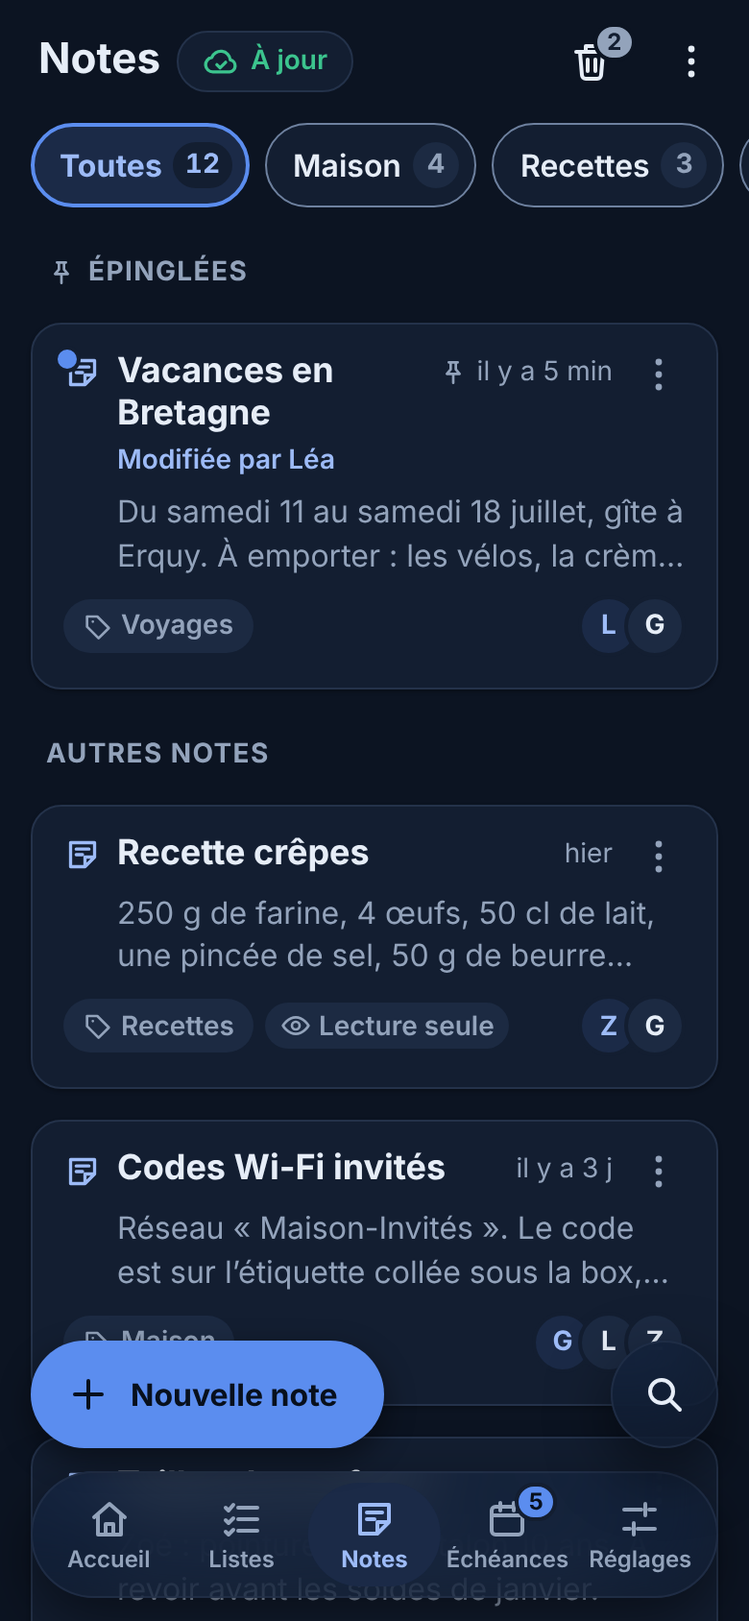
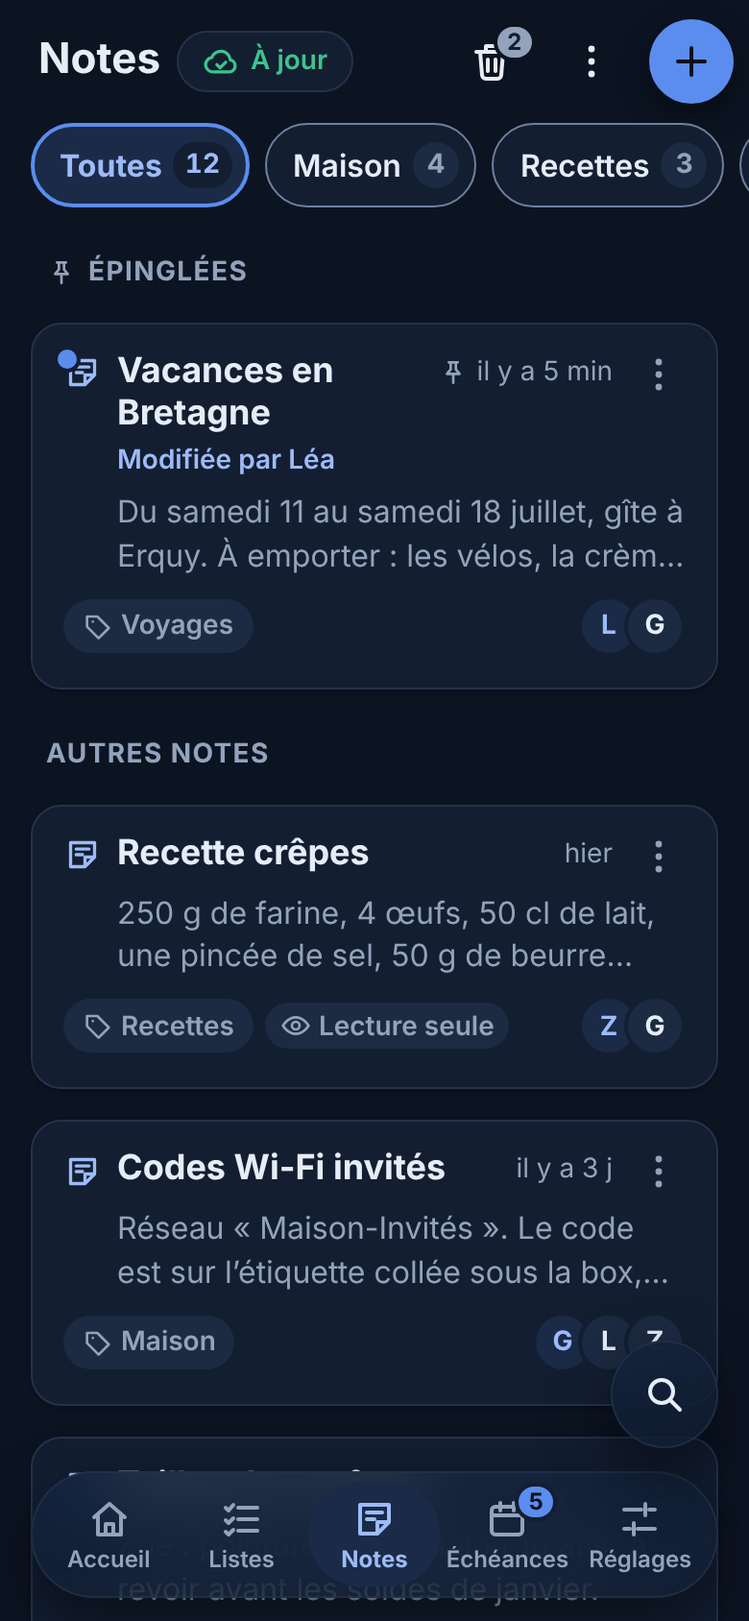
Maquettes : « + » en haut pour une nouvelle note, comme « Mes listes »
Claude-Session: https://claude.ai/code/session_01RoZ4edsPjQcz3aEDFj3cbP

Changed region(s): [[0.0308, 0.8009, 0.5231, 0.8934], [0.7692, 0.0, 0.9846, 0.0616], [0.6154, 0.0, 0.7077, 0.0616]]

diff --git a/design/accueil-notes/reference-telephone.html b/design/accueil-notes/reference-telephone.html
@@ -103,7 +103,7 @@
 <figure class="shot" id="accueil-2"><figcaption><code>accueil-2</code> · Accueil d’un nouveau compte</figcaption><div class="phone"><div class="app"><div class="screen"><header class="home-head"><h1 class="home-head__hello">Bonjour Zoé</h1><div class="home-head__line"><p class="home-head__date">Lundi 23 novembre</p><div class="home-head__tools"><button class="sync sync--ok" type="button" aria-label="À jour, synchroniser maintenant"><svg class="icon icon--sm" aria-hidden="true"><use href="#i-cloud-ok"/></svg><span class="sync__text">À jour</span></button><button class="icon-btn" type="button" aria-label="Notifications"><svg class="icon" aria-hidden="true"><use href="#i-bell"/></svg></button></div></div></header><div class="scroll"><div class="tiles"><section class="card tile" aria-label="Échéances"><button class="tile__head" type="button"><svg class="icon" aria-hidden="true"><use href="#i-calendar"/></svg><span class="tile__name">Échéances</span></button><p class="tile__empty">Aucune échéance</p></section><section class="card tile" aria-label="Listes"><button class="tile__head" type="button"><svg class="icon" aria-hidden="true"><use href="#i-tasks"/></svg><span class="tile__name">Listes</span></button><p class="tile__empty">Aucune liste</p><ul class="tile__rows"><li><button class="tile__row tile__row--add" type="button"><svg class="icon icon--sm" aria-hidden="true"><use href="#i-plus"/></svg><span class="tile__label">Nouvelle liste</span></button></li></ul></section><section class="card tile" aria-label="Notes"><button class="tile__head" type="button"><svg class="icon" aria-hidden="true"><use href="#i-note"/></svg><span class="tile__name">Notes</span></button><p class="tile__empty">Aucune note</p><ul class="tile__rows"><li><button class="tile__row tile__row--add" type="button"><svg class="icon icon--sm" aria-hidden="true"><use href="#i-plus"/></svg><span class="tile__label">Nouvelle note</span></button></li></ul></section><section class="card tile" aria-label="Compte"><button class="tile__head" type="button"><svg class="icon" aria-hidden="true"><use href="#i-user"/></svg><span class="tile__name">Compte</span></button><ul class="tile__rows"><li><button class="tile__row" type="button"><span class="tile__label">Mon compte</span><svg class="icon icon--sm" aria-hidden="true"><use href="#i-chev-r"/></svg></button></li><li><button class="tile__row" type="button"><span class="tile__label">Notifications</span><svg class="icon icon--sm" aria-hidden="true"><use href="#i-chev-r"/></svg></button></li><li><button class="tile__row" type="button"><span class="tile__label">Réglages</span><svg class="icon icon--sm" aria-hidden="true"><use href="#i-chev-r"/></svg></button></li></ul></section></div></div></div></div></div></figure>
 <figure class="shot" id="accueil-3"><figcaption><code>accueil-3</code> · Saisie rapide «&nbsp;Nouvelle note&nbsp;»</figcaption><div class="phone"><div class="app"><div class="screen"><header class="home-head"><h1 class="home-head__hello">Bonjour Guillaume</h1><div class="home-head__line"><p class="home-head__date">Lundi 23 novembre</p><div class="home-head__tools"><button class="sync sync--ok" type="button" aria-label="À jour, synchroniser maintenant"><svg class="icon icon--sm" aria-hidden="true"><use href="#i-cloud-ok"/></svg><span class="sync__text">À jour</span></button><button class="icon-btn icon-btn--badge" type="button" aria-label="Notifications, 3 non lues"><svg class="icon" aria-hidden="true"><use href="#i-bell"/></svg><span class="icon-btn__badge" aria-hidden="true">3</span></button></div></div></header><div class="scroll"><div class="tiles"><section class="card tile" aria-label="Échéances"><button class="tile__head" type="button"><svg class="icon" aria-hidden="true"><use href="#i-calendar"/></svg><span class="tile__name">Échéances</span></button><ul class="tile__rows"><li><button class="tile__row" type="button" aria-label="En retard, 2 tâches"><span class="tile__label">En retard</span><span class="count count--danger" aria-hidden="true">2</span></button></li><li><button class="tile__row" type="button" aria-label="Aujourd&#39;hui, 3 tâches"><span class="tile__label">Aujourd&#39;hui</span><span class="count count--success" aria-hidden="true">3</span></button></li><li><button class="tile__row" type="button" aria-label="Plus tard, 8 tâches"><span class="tile__label">Plus tard</span><span class="count" aria-hidden="true">8</span></button></li></ul></section><section class="card tile" aria-label="Listes"><button class="tile__head" type="button"><svg class="icon" aria-hidden="true"><use href="#i-tasks"/></svg><span class="tile__name">Listes</span></button><ul class="tile__rows"><li><button class="tile__row" type="button" aria-label="Courses, 3 listes"><span class="tile__label">Courses</span><span class="count" aria-hidden="true">3</span></button></li><li><button class="tile__row" type="button" aria-label="Tâches, 4 listes, nouveautés"><span class="tile__label">Tâches</span><span class="tile__dot" aria-hidden="true"></span><span class="count" aria-hidden="true">4</span></button></li><li><button class="tile__row" type="button" aria-label="Envies, 1 liste"><span class="tile__label">Envies</span><span class="count" aria-hidden="true">1</span></button></li></ul></section><section class="card tile" aria-label="Notes"><button class="tile__head" type="button" aria-label="Notes, 12 notes"><svg class="icon" aria-hidden="true"><use href="#i-note"/></svg><span class="tile__name">Notes</span></button><p class="tile__meta" aria-hidden="true">12 notes</p><ul class="tile__rows"><li><button class="tile__row" type="button" aria-label="Vacances en Bretagne, modifiée par Léa"><span class="tile__label">Vacances en Bretagne</span><span class="tile__dot" aria-hidden="true"></span></button></li><li><button class="tile__row" type="button"><span class="tile__label">Recette crêpes</span></button></li><li><button class="tile__row tile__row--add" type="button"><svg class="icon icon--sm" aria-hidden="true"><use href="#i-plus"/></svg><span class="tile__label">Nouvelle note</span></button></li></ul></section><section class="card tile" aria-label="Compte"><button class="tile__head" type="button"><svg class="icon" aria-hidden="true"><use href="#i-user"/></svg><span class="tile__name">Compte</span></button><ul class="tile__rows"><li><button class="tile__row" type="button"><span class="tile__label">Mon compte</span><svg class="icon icon--sm" aria-hidden="true"><use href="#i-chev-r"/></svg></button></li><li><button class="tile__row" type="button" aria-label="Notifications, 3 non lues"><span class="tile__label">Notifications</span><span class="count count--accent" aria-hidden="true">3</span></button></li><li><button class="tile__row" type="button"><span class="tile__label">Réglages</span><svg class="icon icon--sm" aria-hidden="true"><use href="#i-chev-r"/></svg></button></li></ul></section></div></div><div class="scrim"></div><div class="sheet" role="dialog" aria-modal="true" aria-labelledby="qn-title"><span class="sheet__grab" aria-hidden="true"></span><div class="sheet__head"><h2 class="sheet__title" id="qn-title">Nouvelle note</h2></div><input class="input" type="text" aria-label="Titre (facultatif)" placeholder="Titre (facultatif)" maxlength="120"><div class="input input--area quick-note__text is-focus mock-field" role="textbox" aria-multiline="true" aria-label="Texte de la note">Code du portail pour samedi : demander à Léa.
 Prendre les rallonges pour la fête des voisins<span class="mock-caret"></span></div><div class="field"><p class="field__label" id="qn-cat">Catégorie</p><div class="cat-pick" role="radiogroup" aria-labelledby="qn-cat"><button class="cat-pick__opt" type="button" role="radio" aria-checked="true"><svg class="icon icon--sm" aria-hidden="true"><use href="#i-check"/></svg>Sans catégorie</button><button class="cat-pick__opt" type="button" role="radio" aria-checked="false">Maison</button><button class="cat-pick__opt" type="button" role="radio" aria-checked="false">Recettes</button><button class="cat-pick__opt" type="button" role="radio" aria-checked="false">Voyages</button></div></div><div class="sheet__actions"><button class="btn btn--secondary" type="button">Annuler</button><button class="btn btn--primary" type="button">Enregistrer</button></div></div></div></div></div></figure>
-<figure class="shot" id="notes-1"><figcaption><code>notes-1</code> · Écran Notes</figcaption><div class="phone"><div class="app"><div class="screen"><header class="topbar topbar--plain topbar--status"><div class="topbar__main"><h1 class="topbar__title">Notes</h1></div><div class="topbar__status"><button class="sync sync--ok" type="button" aria-label="À jour, synchroniser maintenant"><svg class="icon icon--sm" aria-hidden="true"><use href="#i-cloud-ok"/></svg><span class="sync__text">À jour</span></button></div><button class="icon-btn icon-btn--badge" type="button" aria-label="Corbeille des notes, 2 notes"><svg class="icon" aria-hidden="true"><use href="#i-trash"/></svg><span class="icon-btn__badge icon-btn__badge--neutral" aria-hidden="true">2</span></button><button class="icon-btn" type="button" aria-label="Plus d&#39;actions" aria-haspopup="menu"><svg class="icon" aria-hidden="true"><use href="#i-more"/></svg></button></header><div class="catbar" role="group" aria-label="Catégories"><button class="cat-chip" type="button" aria-pressed="true" aria-label="Toutes, 12 notes">Toutes<span class="cat-chip__count" aria-hidden="true">12</span></button><button class="cat-chip" type="button" aria-pressed="false" aria-label="Maison, 4 notes">Maison<span class="cat-chip__count" aria-hidden="true">4</span></button><button class="cat-chip" type="button" aria-pressed="false" aria-label="Recettes, 3 notes">Recettes<span class="cat-chip__count" aria-hidden="true">3</span></button><button class="cat-chip" type="button" aria-pressed="false" aria-label="Voyages, 2 notes">Voyages<span class="cat-chip__count" aria-hidden="true">2</span></button><button class="cat-chip" type="button" aria-pressed="false" aria-label="Sans catégorie, 3 notes">Sans catégorie<span class="cat-chip__count" aria-hidden="true">3</span></button></div><div class="scroll scroll--under-dock"><div class="cards"><h2 class="notes-section"><svg class="icon icon--xs" aria-hidden="true"><use href="#i-pin"/></svg>Épinglées</h2><article class="card note-card"><div class="note-card__head"><span class="note-card__icon"><svg class="icon icon--sm" aria-hidden="true"><use href="#i-note"/></svg><span class="news-badge news-badge--dot" role="img" aria-label="Nouveautés"></span></span><h3 class="note-card__title"><a href="#" style="color:inherit;text-decoration:none">Vacances en Bretagne</a></h3><span class="note-card__time"><svg class="icon icon--xs" aria-hidden="true"><use href="#i-pin"/></svg><span class="visually-hidden">Épinglée, </span>il y a 5 min</span><button class="icon-btn" type="button" aria-label="Actions de Vacances en Bretagne"><svg class="icon" aria-hidden="true"><use href="#i-more"/></svg></button></div><span class="note-card__news">Modifiée par Léa</span><p class="note-card__excerpt">Du samedi 11 au samedi 18 juillet, gîte à Erquy. À emporter : les vélos, la crème solaire, les jeux de société pour les soirs de pluie.</p><div class="note-card__foot"><div class="note-card__chips"><span class="chip"><svg class="icon icon--xs" aria-hidden="true"><use href="#i-tag"/></svg>Voyages</span></div><div class="avatars" role="img" aria-label="Partagée avec Léa, Guillaume"><span class="avatar">L</span><span class="avatar avatar--b">G</span></div></div></article><h2 class="notes-section">Autres notes</h2><article class="card note-card"><div class="note-card__head"><span class="note-card__icon"><svg class="icon icon--sm" aria-hidden="true"><use href="#i-note"/></svg></span><h3 class="note-card__title"><a href="#" style="color:inherit;text-decoration:none">Recette crêpes</a></h3><span class="note-card__time">hier</span><button class="icon-btn" type="button" aria-label="Actions de Recette crêpes"><svg class="icon" aria-hidden="true"><use href="#i-more"/></svg></button></div><p class="note-card__excerpt">250 g de farine, 4 œufs, 50 cl de lait, une pincée de sel, 50 g de beurre fondu. Laisser reposer une heure.</p><div class="note-card__foot"><div class="note-card__chips"><span class="chip"><svg class="icon icon--xs" aria-hidden="true"><use href="#i-tag"/></svg>Recettes</span><span class="chip chip--readonly"><svg class="icon icon--xs" aria-hidden="true"><use href="#i-eye"/></svg>Lecture seule</span></div><div class="avatars" role="img" aria-label="Partagée avec Zoé, Guillaume"><span class="avatar">Z</span><span class="avatar avatar--b">G</span></div></div></article><article class="card note-card"><div class="note-card__head"><span class="note-card__icon"><svg class="icon icon--sm" aria-hidden="true"><use href="#i-note"/></svg></span><h3 class="note-card__title"><a href="#" style="color:inherit;text-decoration:none">Codes Wi-Fi invités</a></h3><span class="note-card__time">il y a 3 j</span><button class="icon-btn" type="button" aria-label="Actions de Codes Wi-Fi invités"><svg class="icon" aria-hidden="true"><use href="#i-more"/></svg></button></div><p class="note-card__excerpt">Réseau «&nbsp;Maison-Invités&nbsp;». Le code est sur l’étiquette collée sous la box, dans l’entrée.</p><div class="note-card__foot"><div class="note-card__chips"><span class="chip"><svg class="icon icon--xs" aria-hidden="true"><use href="#i-tag"/></svg>Maison</span></div><div class="avatars" role="img" aria-label="Partagée avec Guillaume, Léa, Zoé"><span class="avatar">G</span><span class="avatar avatar--b">L</span><span class="avatar avatar--b">Z</span></div></div></article><article class="card note-card"><div class="note-card__head"><span class="note-card__icon"><svg class="icon icon--sm" aria-hidden="true"><use href="#i-note"/></svg></span><h3 class="note-card__title"><a href="#" style="color:inherit;text-decoration:none">Tailles des enfants</a></h3><span class="note-card__time">il y a 2 sem.</span><button class="icon-btn" type="button" aria-label="Actions de Tailles des enfants"><svg class="icon" aria-hidden="true"><use href="#i-more"/></svg></button></div><p class="note-card__excerpt">Zoé : pointure 34, pantalon 10 ans. À revoir avant les soldes de janvier.</p><div class="note-card__foot"><div class="note-card__chips"><span class="chip"><svg class="icon icon--xs" aria-hidden="true"><use href="#i-tag"/></svg>Sans catégorie</span></div></div></article><article class="card note-card"><div class="note-card__head"><span class="note-card__icon"><svg class="icon icon--sm" aria-hidden="true"><use href="#i-note"/></svg></span><h3 class="note-card__title"><a href="#" style="color:inherit;text-decoration:none">Numéros utiles</a></h3><span class="note-card__time">3 nov.</span><button class="icon-btn" type="button" aria-label="Actions de Numéros utiles"><svg class="icon" aria-hidden="true"><use href="#i-more"/></svg></button></div><p class="note-card__excerpt">Plombier, électricien, chauffagiste : les cartes sont dans le tiroir de l’entrée.</p><div class="note-card__foot"><div class="note-card__chips"><span class="chip"><svg class="icon icon--xs" aria-hidden="true"><use href="#i-tag"/></svg>Maison</span></div></div></article></div></div><div class="tabdock"><button class="fab" type="button"><svg class="icon" aria-hidden="true"><use href="#i-plus"/></svg>Nouvelle note</button><nav class="tabbar tabbar--5 glass" aria-label="Navigation" data-current="2"><span class="tabbar__pill" aria-hidden="true"></span><button class="tabbar__tab" type="button"><span class="tabbar__ico"><svg class="icon" aria-hidden="true"><use href="#i-home"/></svg></span><span class="tabbar__label">Accueil</span></button><button class="tabbar__tab" type="button"><span class="tabbar__ico"><svg class="icon" aria-hidden="true"><use href="#i-tasks"/></svg></span><span class="tabbar__label">Listes</span></button><button class="tabbar__tab" type="button" aria-current="page"><span class="tabbar__ico"><svg class="icon" aria-hidden="true"><use href="#i-note"/></svg></span><span class="tabbar__label">Notes</span></button><button class="tabbar__tab" type="button" aria-label="Échéances, 5 tâches en retard ou pour aujourd&#39;hui"><span class="tabbar__ico"><svg class="icon" aria-hidden="true"><use href="#i-calendar"/></svg><span class="tabbar__badge" aria-hidden="true">5</span></span><span class="tabbar__label">Échéances</span></button><button class="tabbar__tab" type="button"><span class="tabbar__ico"><svg class="icon" aria-hidden="true"><use href="#i-sliders"/></svg></span><span class="tabbar__label">Réglages</span></button></nav><button class="loupe glass" type="button" aria-label="Rechercher dans les notes" aria-expanded="false"><svg class="icon" aria-hidden="true"><use href="#i-search"/></svg></button></div></div></div></div></figure>
+<figure class="shot" id="notes-1"><figcaption><code>notes-1</code> · Écran Notes</figcaption><div class="phone"><div class="app"><div class="screen"><header class="topbar topbar--plain topbar--status"><div class="topbar__main"><h1 class="topbar__title">Notes</h1></div><div class="topbar__status"><button class="sync sync--ok" type="button" aria-label="À jour, synchroniser maintenant"><svg class="icon icon--sm" aria-hidden="true"><use href="#i-cloud-ok"/></svg><span class="sync__text">À jour</span></button></div><button class="icon-btn icon-btn--badge" type="button" aria-label="Corbeille des notes, 2 notes"><svg class="icon" aria-hidden="true"><use href="#i-trash"/></svg><span class="icon-btn__badge icon-btn__badge--neutral" aria-hidden="true">2</span></button><button class="icon-btn" type="button" aria-label="Plus d&#39;actions" aria-haspopup="menu"><svg class="icon" aria-hidden="true"><use href="#i-more"/></svg></button><button class="icon-btn icon-btn--accent" type="button" aria-label="Nouvelle note"><svg class="icon" aria-hidden="true"><use href="#i-plus"/></svg></button></header><div class="catbar" role="group" aria-label="Catégories"><button class="cat-chip" type="button" aria-pressed="true" aria-label="Toutes, 12 notes">Toutes<span class="cat-chip__count" aria-hidden="true">12</span></button><button class="cat-chip" type="button" aria-pressed="false" aria-label="Maison, 4 notes">Maison<span class="cat-chip__count" aria-hidden="true">4</span></button><button class="cat-chip" type="button" aria-pressed="false" aria-label="Recettes, 3 notes">Recettes<span class="cat-chip__count" aria-hidden="true">3</span></button><button class="cat-chip" type="button" aria-pressed="false" aria-label="Voyages, 2 notes">Voyages<span class="cat-chip__count" aria-hidden="true">2</span></button><button class="cat-chip" type="button" aria-pressed="false" aria-label="Sans catégorie, 3 notes">Sans catégorie<span class="cat-chip__count" aria-hidden="true">3</span></button></div><div class="scroll scroll--under-dock"><div class="cards"><h2 class="notes-section"><svg class="icon icon--xs" aria-hidden="true"><use href="#i-pin"/></svg>Épinglées</h2><article class="card note-card"><div class="note-card__head"><span class="note-card__icon"><svg class="icon icon--sm" aria-hidden="true"><use href="#i-note"/></svg><span class="news-badge news-badge--dot" role="img" aria-label="Nouveautés"></span></span><h3 class="note-card__title"><a href="#" style="color:inherit;text-decoration:none">Vacances en Bretagne</a></h3><span class="note-card__time"><svg class="icon icon--xs" aria-hidden="true"><use href="#i-pin"/></svg><span class="visually-hidden">Épinglée, </span>il y a 5 min</span><button class="icon-btn" type="button" aria-label="Actions de Vacances en Bretagne"><svg class="icon" aria-hidden="true"><use href="#i-more"/></svg></button></div><span class="note-card__news">Modifiée par Léa</span><p class="note-card__excerpt">Du samedi 11 au samedi 18 juillet, gîte à Erquy. À emporter : les vélos, la crème solaire, les jeux de société pour les soirs de pluie.</p><div class="note-card__foot"><div class="note-card__chips"><span class="chip"><svg class="icon icon--xs" aria-hidden="true"><use href="#i-tag"/></svg>Voyages</span></div><div class="avatars" role="img" aria-label="Partagée avec Léa, Guillaume"><span class="avatar">L</span><span class="avatar avatar--b">G</span></div></div></article><h2 class="notes-section">Autres notes</h2><article class="card note-card"><div class="note-card__head"><span class="note-card__icon"><svg class="icon icon--sm" aria-hidden="true"><use href="#i-note"/></svg></span><h3 class="note-card__title"><a href="#" style="color:inherit;text-decoration:none">Recette crêpes</a></h3><span class="note-card__time">hier</span><button class="icon-btn" type="button" aria-label="Actions de Recette crêpes"><svg class="icon" aria-hidden="true"><use href="#i-more"/></svg></button></div><p class="note-card__excerpt">250 g de farine, 4 œufs, 50 cl de lait, une pincée de sel, 50 g de beurre fondu. Laisser reposer une heure.</p><div class="note-card__foot"><div class="note-card__chips"><span class="chip"><svg class="icon icon--xs" aria-hidden="true"><use href="#i-tag"/></svg>Recettes</span><span class="chip chip--readonly"><svg class="icon icon--xs" aria-hidden="true"><use href="#i-eye"/></svg>Lecture seule</span></div><div class="avatars" role="img" aria-label="Partagée avec Zoé, Guillaume"><span class="avatar">Z</span><span class="avatar avatar--b">G</span></div></div></article><article class="card note-card"><div class="note-card__head"><span class="note-card__icon"><svg class="icon icon--sm" aria-hidden="true"><use href="#i-note"/></svg></span><h3 class="note-card__title"><a href="#" style="color:inherit;text-decoration:none">Codes Wi-Fi invités</a></h3><span class="note-card__time">il y a 3 j</span><button class="icon-btn" type="button" aria-label="Actions de Codes Wi-Fi invités"><svg class="icon" aria-hidden="true"><use href="#i-more"/></svg></button></div><p class="note-card__excerpt">Réseau «&nbsp;Maison-Invités&nbsp;». Le code est sur l’étiquette collée sous la box, dans l’entrée.</p><div class="note-card__foot"><div class="note-card__chips"><span class="chip"><svg class="icon icon--xs" aria-hidden="true"><use href="#i-tag"/></svg>Maison</span></div><div class="avatars" role="img" aria-label="Partagée avec Guillaume, Léa, Zoé"><span class="avatar">G</span><span class="avatar avatar--b">L</span><span class="avatar avatar--b">Z</span></div></div></article><article class="card note-card"><div class="note-card__head"><span class="note-card__icon"><svg class="icon icon--sm" aria-hidden="true"><use href="#i-note"/></svg></span><h3 class="note-card__title"><a href="#" style="color:inherit;text-decoration:none">Tailles des enfants</a></h3><span class="note-card__time">il y a 2 sem.</span><button class="icon-btn" type="button" aria-label="Actions de Tailles des enfants"><svg class="icon" aria-hidden="true"><use href="#i-more"/></svg></button></div><p class="note-card__excerpt">Zoé : pointure 34, pantalon 10 ans. À revoir avant les soldes de janvier.</p><div class="note-card__foot"><div class="note-card__chips"><span class="chip"><svg class="icon icon--xs" aria-hidden="true"><use href="#i-tag"/></svg>Sans catégorie</span></div></div></article><article class="card note-card"><div class="note-card__head"><span class="note-card__icon"><svg class="icon icon--sm" aria-hidden="true"><use href="#i-note"/></svg></span><h3 class="note-card__title"><a href="#" style="color:inherit;text-decoration:none">Numéros utiles</a></h3><span class="note-card__time">3 nov.</span><button class="icon-btn" type="button" aria-label="Actions de Numéros utiles"><svg class="icon" aria-hidden="true"><use href="#i-more"/></svg></button></div><p class="note-card__excerpt">Plombier, électricien, chauffagiste : les cartes sont dans le tiroir de l’entrée.</p><div class="note-card__foot"><div class="note-card__chips"><span class="chip"><svg class="icon icon--xs" aria-hidden="true"><use href="#i-tag"/></svg>Maison</span></div></div></article></div></div><div class="tabdock"><nav class="tabbar tabbar--5 glass" aria-label="Navigation" data-current="2"><span class="tabbar__pill" aria-hidden="true"></span><button class="tabbar__tab" type="button"><span class="tabbar__ico"><svg class="icon" aria-hidden="true"><use href="#i-home"/></svg></span><span class="tabbar__label">Accueil</span></button><button class="tabbar__tab" type="button"><span class="tabbar__ico"><svg class="icon" aria-hidden="true"><use href="#i-tasks"/></svg></span><span class="tabbar__label">Listes</span></button><button class="tabbar__tab" type="button" aria-current="page"><span class="tabbar__ico"><svg class="icon" aria-hidden="true"><use href="#i-note"/></svg></span><span class="tabbar__label">Notes</span></button><button class="tabbar__tab" type="button" aria-label="Échéances, 5 tâches en retard ou pour aujourd&#39;hui"><span class="tabbar__ico"><svg class="icon" aria-hidden="true"><use href="#i-calendar"/></svg><span class="tabbar__badge" aria-hidden="true">5</span></span><span class="tabbar__label">Échéances</span></button><button class="tabbar__tab" type="button"><span class="tabbar__ico"><svg class="icon" aria-hidden="true"><use href="#i-sliders"/></svg></span><span class="tabbar__label">Réglages</span></button></nav><button class="loupe glass" type="button" aria-label="Rechercher dans les notes" aria-expanded="false"><svg class="icon" aria-hidden="true"><use href="#i-search"/></svg></button></div></div></div></div></figure>
 <figure class="shot" id="notes-2"><figcaption><code>notes-2</code> · Catégories</figcaption><div class="phone"><div class="app"><div class="screen"><header class="topbar"><button class="icon-btn" type="button" aria-label="Retour"><svg class="icon" aria-hidden="true"><use href="#i-chev-l"/></svg></button><div class="topbar__main"><h1 class="topbar__title">Catégories</h1></div></header><div class="body body--flush"><p class="page-intro">Vos catégories ne sont visibles que par vous. Elles rangent toutes les notes que vous voyez, les vôtres comme celles qu’on vous partage.</p><ul class="group"><li class="manage cat-row"><span class="cat-row__handle" aria-hidden="true" title="Glisser pour changer l&#39;ordre"><svg class="icon icon--sm" aria-hidden="true"><use href="#i-menu-lines"/></svg></span><div class="manage__body"><span class="manage__name">Maison</span><span class="manage__sub">4 notes</span></div><button class="icon-btn" type="button" aria-label="Renommer «&nbsp;Maison&nbsp;»"><svg class="icon icon--sm" aria-hidden="true"><use href="#i-pencil"/></svg></button><button class="icon-btn" type="button" aria-label="Supprimer «&nbsp;Maison&nbsp;»"><svg class="icon icon--sm" aria-hidden="true"><use href="#i-trash"/></svg></button></li><li class="manage cat-row"><span class="cat-row__handle" aria-hidden="true" title="Glisser pour changer l&#39;ordre"><svg class="icon icon--sm" aria-hidden="true"><use href="#i-menu-lines"/></svg></span><div class="manage__body"><span class="manage__name">Recettes</span><span class="manage__sub">3 notes</span></div><button class="icon-btn" type="button" aria-label="Renommer «&nbsp;Recettes&nbsp;»"><svg class="icon icon--sm" aria-hidden="true"><use href="#i-pencil"/></svg></button><button class="icon-btn" type="button" aria-label="Supprimer «&nbsp;Recettes&nbsp;»"><svg class="icon icon--sm" aria-hidden="true"><use href="#i-trash"/></svg></button></li><li class="manage cat-row"><span class="cat-row__handle" aria-hidden="true" title="Glisser pour changer l&#39;ordre"><svg class="icon icon--sm" aria-hidden="true"><use href="#i-menu-lines"/></svg></span><div class="manage__body"><span class="manage__name">Voyages</span><span class="manage__sub">2 notes</span></div><button class="icon-btn" type="button" aria-label="Renommer «&nbsp;Voyages&nbsp;»"><svg class="icon icon--sm" aria-hidden="true"><use href="#i-pencil"/></svg></button><button class="icon-btn" type="button" aria-label="Supprimer «&nbsp;Voyages&nbsp;»"><svg class="icon icon--sm" aria-hidden="true"><use href="#i-trash"/></svg></button></li><li class="manage cat-row is-off"><span class="cat-row__handle cat-row__handle--none" aria-hidden="true"></span><div class="manage__body"><span class="manage__name">Sans catégorie</span><span class="manage__sub">3 notes · toujours en dernier</span></div></li></ul><h2 class="section-title">Nouvelle catégorie</h2><div class="group"><form class="add-inline"><input class="input" type="text" aria-label="Nom de la nouvelle catégorie" placeholder="Par exemple : École" maxlength="40"><button class="btn btn--primary" type="button">Ajouter</button></form></div><p class="page-intro" style="margin-top:12px">Glissez <svg class="icon icon--xs" aria-hidden="true"><use href="#i-menu-lines"/></svg> pour changer l’ordre des catégories (il sert aussi aux pastilles de l’écran Notes).</p></div></div></div></div></figure>
 <figure class="shot" id="notes-2-dialogue"><figcaption><code>notes-2-dialogue</code> · Catégories : supprimer (référence, sans capture)</figcaption><div class="phone"><div class="app"><div class="screen"><header class="topbar"><button class="icon-btn" type="button" aria-label="Retour"><svg class="icon" aria-hidden="true"><use href="#i-chev-l"/></svg></button><div class="topbar__main"><h1 class="topbar__title">Catégories</h1></div></header><div class="body body--flush"><p class="page-intro">Vos catégories ne sont visibles que par vous. Elles rangent toutes les notes que vous voyez, les vôtres comme celles qu’on vous partage.</p><ul class="group"><li class="manage cat-row"><span class="cat-row__handle" aria-hidden="true" title="Glisser pour changer l&#39;ordre"><svg class="icon icon--sm" aria-hidden="true"><use href="#i-menu-lines"/></svg></span><div class="manage__body"><span class="manage__name">Maison</span><span class="manage__sub">4 notes</span></div><button class="icon-btn" type="button" aria-label="Renommer «&nbsp;Maison&nbsp;»"><svg class="icon icon--sm" aria-hidden="true"><use href="#i-pencil"/></svg></button><button class="icon-btn" type="button" aria-label="Supprimer «&nbsp;Maison&nbsp;»"><svg class="icon icon--sm" aria-hidden="true"><use href="#i-trash"/></svg></button></li><li class="manage cat-row"><span class="cat-row__handle" aria-hidden="true" title="Glisser pour changer l&#39;ordre"><svg class="icon icon--sm" aria-hidden="true"><use href="#i-menu-lines"/></svg></span><div class="manage__body"><span class="manage__name">Recettes</span><span class="manage__sub">3 notes</span></div><button class="icon-btn" type="button" aria-label="Renommer «&nbsp;Recettes&nbsp;»"><svg class="icon icon--sm" aria-hidden="true"><use href="#i-pencil"/></svg></button><button class="icon-btn" type="button" aria-label="Supprimer «&nbsp;Recettes&nbsp;»"><svg class="icon icon--sm" aria-hidden="true"><use href="#i-trash"/></svg></button></li><li class="manage cat-row"><span class="cat-row__handle" aria-hidden="true" title="Glisser pour changer l&#39;ordre"><svg class="icon icon--sm" aria-hidden="true"><use href="#i-menu-lines"/></svg></span><div class="manage__body"><span class="manage__name">Voyages</span><span class="manage__sub">2 notes</span></div><button class="icon-btn" type="button" aria-label="Renommer «&nbsp;Voyages&nbsp;»"><svg class="icon icon--sm" aria-hidden="true"><use href="#i-pencil"/></svg></button><button class="icon-btn" type="button" aria-label="Supprimer «&nbsp;Voyages&nbsp;»"><svg class="icon icon--sm" aria-hidden="true"><use href="#i-trash"/></svg></button></li><li class="manage cat-row is-off"><span class="cat-row__handle cat-row__handle--none" aria-hidden="true"></span><div class="manage__body"><span class="manage__name">Sans catégorie</span><span class="manage__sub">3 notes · toujours en dernier</span></div></li></ul><h2 class="section-title">Nouvelle catégorie</h2><div class="group"><form class="add-inline"><input class="input" type="text" aria-label="Nom de la nouvelle catégorie" placeholder="Par exemple : École" maxlength="40"><button class="btn btn--primary" type="button">Ajouter</button></form></div><p class="page-intro" style="margin-top:12px">Glissez <svg class="icon icon--xs" aria-hidden="true"><use href="#i-menu-lines"/></svg> pour changer l’ordre des catégories (il sert aussi aux pastilles de l’écran Notes).</p></div><div class="scrim"></div><div class="dialog" role="alertdialog" aria-modal="true" aria-labelledby="dlg-t" aria-describedby="dlg-d"><h2 class="dialog__title" id="dlg-t">Supprimer «&nbsp;Recettes&nbsp;» ?</h2><p class="dialog__text" id="dlg-d">Les 3 notes de «&nbsp;Recettes&nbsp;» passent dans «&nbsp;Sans catégorie&nbsp;». Aucune note n’est supprimée.</p><div class="dialog__actions"><button class="btn btn--secondary" type="button">Annuler</button><button class="btn btn--danger" type="button">Supprimer</button></div></div></div></div></div></figure>
 <figure class="shot" id="notes-3"><figcaption><code>notes-3</code> · Corbeille des notes</figcaption><div class="phone"><div class="app"><div class="screen"><header class="topbar"><button class="icon-btn" type="button" aria-label="Retour"><svg class="icon" aria-hidden="true"><use href="#i-chev-l"/></svg></button><div class="topbar__main"><h1 class="topbar__title">Corbeille des notes</h1></div></header><div class="body body--flush"><p class="page-intro">Vos notes supprimées restent ici 30 jours, puis elles sont effacées pour de bon. Restaurée, une note revient pour tous ceux qui la voyaient, à sa place.</p><div class="page-tools"><span class="page-tools__count">2 notes</span><button class="cart__action cart__action--danger" type="button"><svg class="icon icon--sm" aria-hidden="true"><use href="#i-trash"/></svg>Vider la corbeille</button></div><div class="group"><div class="note-trash"><div class="note-trash__body"><span class="note-trash__title">Menus de la semaine</span><span class="note-trash__when">Supprimée le 21 novembre · encore 28 jours</span><span class="note-trash__meta"><span class="chip"><svg class="icon icon--xs" aria-hidden="true"><use href="#i-tag"/></svg>Recettes</span><span><svg class="icon icon--xs" aria-hidden="true"><use href="#i-users"/></svg>Partagée avec 2 personnes</span></span></div><div class="note-trash__actions"><button class="cart__action cart__action--danger" type="button" aria-label="Supprimer définitivement Menus de la semaine">Supprimer définitivement</button><button class="btn btn--sm btn--secondary" type="button" aria-label="Restaurer Menus de la semaine">Restaurer</button></div></div><div class="note-trash"><div class="note-trash__body"><span class="note-trash__title">Idées pour Noël</span><span class="note-trash__when">Supprimée le 9 novembre · encore 16 jours</span><span class="note-trash__meta"><span class="chip"><svg class="icon icon--xs" aria-hidden="true"><use href="#i-tag"/></svg>Sans catégorie</span></span></div><div class="note-trash__actions"><button class="cart__action cart__action--danger" type="button" aria-label="Supprimer définitivement Idées pour Noël">Supprimer définitivement</button><button class="btn btn--sm btn--secondary" type="button" aria-label="Restaurer Idées pour Noël">Restaurer</button></div></div></div></div></div></div></div></figure>

diff --git a/design/accueil-notes/listo-accueil-notes.css b/design/accueil-notes/listo-accueil-notes.css
@@ -82,13 +82,12 @@
    même verre, même pastille qui glisse (data-current = 0 à 4) ; boutons de
    54 px de haut et d'environ 70 px de large sur un téléphone de 390 px.
    Pas de loupe sur l'Accueil (.loupe--off), ni sur la page Notifications.
-   .tabdock > .fab : « Nouvelle note », à gauche, à la hauteur de la loupe
-   (12 px au-dessus du bandeau), à portée de pouce. */
+   « Nouvelle note » : « + » rond plein (.icon-btn--accent) dans la barre
+   du haut, comme « Mes listes » (choix du 23 novembre 2026). */
 .tabbar--5 .tabbar__pill { width: calc((100% - 10px) / 5); }
 .tabbar--5[data-current="3"] .tabbar__pill { transform: translateX(300%); }
 .tabbar--5[data-current="4"] .tabbar__pill { transform: translateX(400%); }
 .tabbar--5 .tabbar__tab { padding: 0 2px; }
-.tabdock > .fab { left: 0; right: auto; bottom: calc(100% + 12px); }
 
 /* 16.22 Saisie rapide d'une note (feuille du bas ; fenêtre centrée sur
    ordinateur) : « Titre (facultatif) », grand champ de texte, catégorie en

diff --git a/design/accueil-notes/README.md b/design/accueil-notes/README.md
@@ -16,7 +16,7 @@ Maquettes du 23 novembre 2026 pour le cadrage `docs/cadrage-accueil-notes-notifi
 - `accueil-1` : « Bonjour Guillaume », la date, la pastille « À jour » et la cloche avec « 3 ». Quatre tuiles : Échéances (En retard 2 en rouge, Aujourd'hui 3 en vert, Plus tard 8 en gris), Listes (Courses, Tâches avec le point des nouveautés, Envies), Notes (« 12 notes », les deux dernières, « Nouvelle note »), Compte (Mon compte, Notifications 3, Réglages). Ni bandeau du bas ni loupe : les tuiles mènent déjà partout (choix du propriétaire du 23 novembre 2026).
 - `accueil-2` : nouveau compte : « Aucune échéance », « Aucune liste » et « Nouvelle liste », « Aucune note » et « Nouvelle note », cloche sans pastille.
 - `accueil-3` : saisie rapide « Nouvelle note » : titre facultatif, texte (curseur dedans, clavier non dessiné), catégorie en pastilles, « Annuler » et « Enregistrer ».
-- `notes-1` : écran Notes : corbeille (2), menu ⋮, pastilles des catégories qui défilent, « Épinglées » puis « Autres notes », une note modifiée par Léa (pastille et « Modifiée par Léa »), une note en lecture seule, « Nouvelle note » flottant à gauche et loupe à droite.
+- `notes-1` : écran Notes : corbeille (2), menu ⋮, pastilles des catégories qui défilent, « Épinglées » puis « Autres notes », une note modifiée par Léa (pastille et « Modifiée par Léa »), une note en lecture seule, « + » (Nouvelle note) dans la barre du haut comme sur « Mes listes », loupe à droite au-dessus du bandeau.
 - `notes-2` : Catégories : poignées pour changer l'ordre, Renommer, Supprimer, « Sans catégorie » en dernier, « Nouvelle catégorie ». La confirmation de suppression est dans la page de référence (`notes-2-dialogue`), sans capture.
 - `notes-3` : Corbeille des notes : catégorie gardée, date et jours restants, « Partagée avec 2 personnes », Supprimer définitivement / Restaurer, « Vider la corbeille ».
 - `note-1` : une note (« Vacances en Bretagne », à Léa, que Guillaume peut modifier) : catégorie « Voyages », « Personnes », « Enregistré », lien cliquable, « Modifiée par Léa · il y a 5 min ».
@@ -34,7 +34,7 @@ Maquettes du 23 novembre 2026 pour le cadrage `docs/cadrage-accueil-notes-notifi
 - En-tête de l'Accueil : le bonjour seul sur sa ligne, la date dessous avec la pastille et la cloche à droite. Avec la pastille et la cloche sur la même ligne, « Bonjour Guillaume » ne tenait pas sur 390 px.
 - Lignes des tuiles en pilule, comme tous les boutons depuis le 11 novembre. Nombres en pastille : rouge En retard, vert Aujourd'hui, bleu Notifications non lues, gris ailleurs. Le libellé dit toujours ce que compte le nombre.
 - « Lecture seule » des notes : icône œil (`#i-eye`), comme les listes. Le cadrage parle d'un cadenas.
-- « Nouvelle note » : bouton flottant à gauche, à la hauteur de la loupe (le cadrage le demande). « Mes listes » a son « + » en haut.
+- « Nouvelle note » : « + » rond plein dans la barre du haut, comme « Mes listes » (choix du propriétaire du 23 novembre 2026, au lieu d'un gros bouton en bas).
 - Sur le téléphone, le bouton « Personnes » de la note montre l'icône et les pastilles, sans le mot (place) ; le mot est dans le nom lu. Il est écrit sur ordinateur.
 - Ordinateur : « Échéances » garde sa place sous l'Accueil dans l'ordre du bandeau (Accueil, Mes listes, Notes, Échéances), au-dessus des listes. Note ouverte dans une zone à droite, sans voile, et non dans un tiroir : elle s'enregistre toute seule.
 - Notifications : réglages des notifications (icône) en haut à droite ; « Tout marquer comme lu » sur la ligne sous le titre.
@@ -47,4 +47,4 @@ Maquettes du 23 novembre 2026 pour le cadrage `docs/cadrage-accueil-notes-notifi
 4. Tuiles cachables ou déplaçables : proposé pas pour l'instant.
 5. Notes et assistants IA (MCP) : proposé plus tard.
 
-À trancher aussi : cadenas ou œil pour « Lecture seule » ; bouton flottant ou « + » en haut pour « Nouvelle note » ; liens cliquables pendant qu’on écrit (un champ de texte simple ne sait pas les afficher : à régler à la construction) ; pour les catégories, « Monter » et « Descendre » au clavier et au lecteur d’écran, en plus de la poignée (comme « Réordonner » des sous-tâches).
+À trancher aussi : cadenas ou œil pour « Lecture seule » ; liens cliquables pendant qu’on écrit (un champ de texte simple ne sait pas les afficher : à régler à la construction) ; pour les catégories, « Monter » et « Descendre » au clavier et au lecteur d’écran, en plus de la poignée (comme « Réordonner » des sous-tâches).

diff --git a/docs/cadrage-accueil-notes-notifications.md b/docs/cadrage-accueil-notes-notifications.md
@@ -76,7 +76,7 @@ Document de conception rédigé le 23 novembre 2026, à partir des demandes et d
 - **Pastilles de catégories** sous la barre, qui défilent de côté : « Toutes » (par défaut), chaque catégorie avec son nombre, « Sans catégorie ». Le choix est retenu sur l'appareil.
 - **Recherche** : la loupe ronde ouvre le champ sous le titre ; elle cherche dans les titres et les textes de la catégorie choisie (« Rechercher dans les notes »).
 - **Cartes** : les notes épinglées d'abord (petite épingle), puis les autres, les plus récemment modifiées d'abord (« Trier » propose aussi « Ordre alphabétique »). Chaque carte : titre (ou première ligne), deux ou trois lignes du texte, catégorie, « il y a 2 h », pastilles des personnes si elle est partagée, œil « Lecture seule » si je ne peux pas la modifier (comme les cartes de listes), et la pastille des nouveautés si quelqu'un d'autre l'a modifiée depuis ma dernière lecture.
-- **Bouton flottant** « Nouvelle note » en bas, à portée de pouce (même composant que « Nouvelle liste »).
+- **« + » dans la barre du haut** pour « Nouvelle note », comme le « + » de « Mes listes » (bouton rond plein, à droite ; pas de gros bouton en bas : choix du propriétaire du 23 novembre 2026).
 - **Menu d'une carte** (⋮, appui long, clic droit sur ordinateur) : Épingler / Désépingler, Catégorie…, Partager (propriétaire) ou Personnes, Dupliquer, Quitter la note (si on me l'a partagée), Supprimer (propriétaire).
 - **Vide** : « Aucune note » avec une phrase d'aide et « Nouvelle note » ; catégorie vide : « Aucune note dans « Recettes » ».
 
